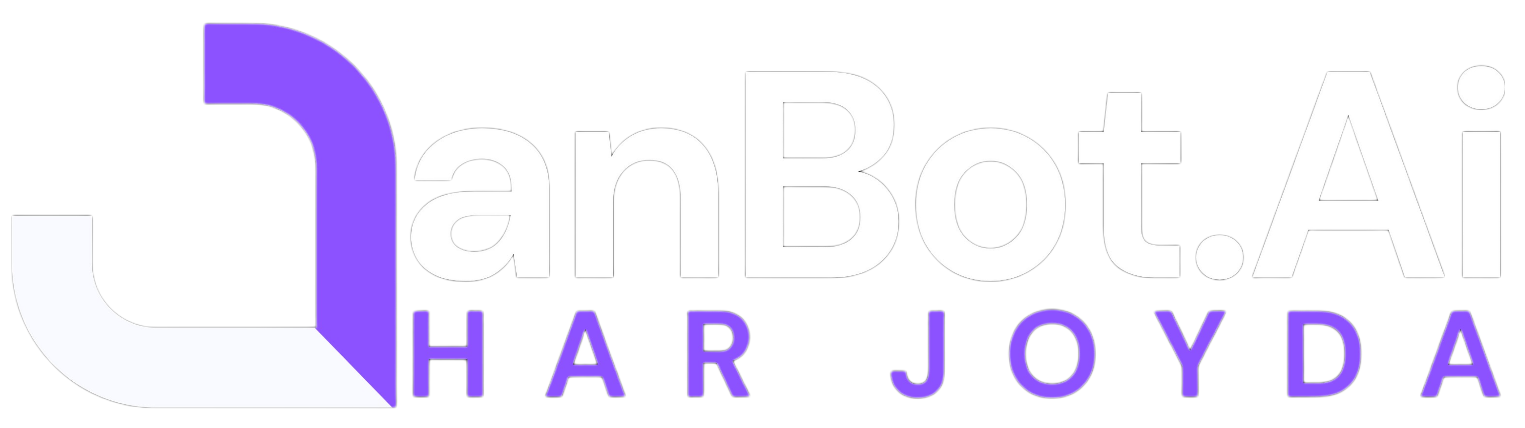
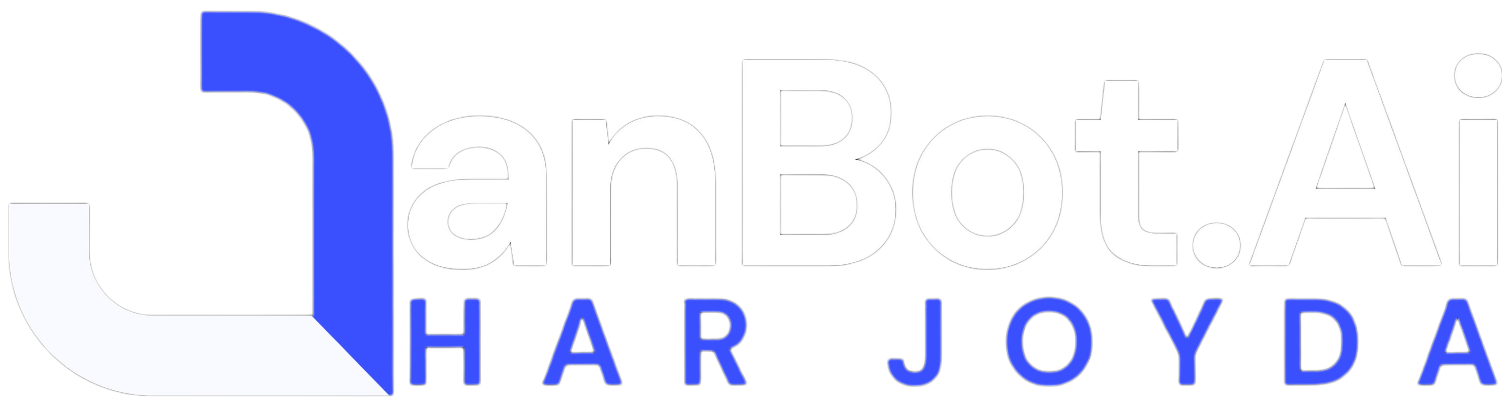
added uz brand and also updated timeslots and added a telegram

diff --git a/src/sections/Footer.tsx b/src/sections/Footer.tsx
@@ -221,7 +221,7 @@ export const Footer = () => {
       <div className="absolute inset-0 overflow-hidden">
         {/* Gradient Orbs */}
         <motion.div
-          className="absolute top-0 left-1/4 w-96 h-96 rounded-full blur-3xl" style={{ backgroundColor: `${brand.accentRgba}0.1)` }}
+          className="absolute top-0 left-1/4 w-96 h-96 bg-blue-600/10 rounded-full blur-3xl"
           animate={{
             scale: [1, 1.2, 1],
             opacity: [0.3, 0.5, 0.3],
@@ -233,7 +233,7 @@ export const Footer = () => {
           }}
         />
         <motion.div
-          className="absolute bottom-0 right-1/4 w-96 h-96 rounded-full blur-3xl" style={{ backgroundColor: `${brand.accentRgba}0.1)` }}
+          className="absolute bottom-0 right-1/4 w-96 h-96 bg-indigo-600/10 rounded-full blur-3xl"
           animate={{
             scale: [1.2, 1, 1.2],
             opacity: [0.5, 0.3, 0.5],
@@ -288,7 +288,7 @@ export const Footer = () => {
                 variants={itemVariants}
                 className="relative group"
               >
-                <div className="absolute inset-0 rounded-2xl blur-xl group-hover:blur-2xl transition-all duration-500" style={{ background: `linear-gradient(135deg, ${brand.accentRgba}0.2) 0%, ${brand.accentRgba}0.1) 100%)` }} />
+                <div className="absolute inset-0 bg-gradient-to-r from-blue-600/20 to-indigo-600/20 rounded-2xl blur-xl group-hover:blur-2xl transition-all duration-500" />
                 <div className="relative bg-white/5 backdrop-blur-sm border border-white/10 rounded-2xl p-6 hover:bg-white/10 transition-all duration-300">
                   <div className="flex items-center justify-between">
                     <div>
@@ -303,7 +303,7 @@ export const Footer = () => {
                       </motion.div>
                       <div className="text-sm text-gray-400">{stat.label}</div>
                     </div>
-                    <stat.icon className="w-12 h-12" style={{ color: brand.primary, opacity: 0.5 }} />
+                    <stat.icon className="w-12 h-12 text-blue-400/50" />
                   </div>
                 </div>
               </motion.div>
@@ -345,8 +345,7 @@ export const Footer = () => {
 
                   <motion.a
                     href="#hero"
-                    className="inline-flex items-center gap-2 font-semibold text-sm sm:text-base group transition-all duration-300"
-                    style={{ color: brand.primary }}
+                    className="inline-flex items-center gap-2 text-blue-400 hover:text-blue-300 font-semibold text-sm sm:text-base group transition-all duration-300"
                     whileHover={{ x: 5 }}
                   >
                     {translations.learnMore}
@@ -358,11 +357,11 @@ export const Footer = () => {
                 <div className="space-y-3">
                   <motion.a
                     href={`mailto:${translations.contact.email}`}
-                    className="flex items-center gap-3 text-gray-400 text-sm transition-colors duration-300 group hover:text-[var(--brand-primary)]"
+                    className="flex items-center gap-3 text-gray-400 hover:text-blue-400 text-sm transition-colors duration-300 group"
                     whileHover={{ x: 5 }}
                   >
-                    <div className="p-2 rounded-lg transition-colors duration-300" style={{ backgroundColor: `${brand.accentRgba}0.1)` }}>
-                      <Mail className="w-4 h-4" style={{ color: brand.primary }} />
+                    <div className="p-2 bg-blue-500/10 rounded-lg group-hover:bg-blue-500/20 transition-colors duration-300">
+                      <Mail className="w-4 h-4 text-blue-400" />
                     </div>
                     {translations.contact.email}
                   </motion.a>
@@ -382,11 +381,11 @@ export const Footer = () => {
                     <motion.button
                       key={index}
                       onClick={() => handleScrollToSection(link)}
-                      className="w-full text-left block text-gray-400 text-sm transition-all duration-300 group flex items-center gap-2 cursor-pointer bg-transparent border-0 hover:text-[var(--brand-primary)]"
+                      className="w-full text-left block text-gray-400 hover:text-blue-400 text-sm transition-all duration-300 group flex items-center gap-2 cursor-pointer bg-transparent border-0"
                       whileHover={{ x: 5 }}
                     >
-                      <CheckCircle className="w-3 h-3 transition-colors group-hover:text-[var(--brand-primary)]" style={{ color: `${brand.accentRgba}0.5)` }} />
-                      <span className="border-b border-transparent transition-colors duration-300 group-hover:border-[var(--brand-primary)]">
+                      <CheckCircle className="w-3 h-3 text-blue-500/50 group-hover:text-blue-400 transition-colors" />
+                      <span className="border-b border-transparent group-hover:border-blue-400/50 transition-colors duration-300">
                         {link}
                       </span>
                     </motion.button>
@@ -405,33 +404,33 @@ export const Footer = () => {
                 <nav className="space-y-2">
                   <motion.button
                     onClick={() => openPdfModal("data_processing_policy", translations.legal.dataProcessing)}
-                    className="w-full text-left block text-gray-400 text-sm transition-all duration-300 group flex items-center gap-2 cursor-pointer bg-transparent border-0 hover:text-[var(--brand-primary)]"
+                    className="w-full text-left block text-gray-400 hover:text-blue-400 text-sm transition-all duration-300 group flex items-center gap-2 cursor-pointer bg-transparent border-0"
                     whileHover={{ x: 5 }}
                   >
-                    <FileText className="w-3 h-3 transition-colors group-hover:text-[var(--brand-primary)]" style={{ color: `${brand.accentRgba}0.5)` }} />
-                    <span className="border-b border-transparent transition-colors duration-300 group-hover:border-[var(--brand-primary)]">
+                    <FileText className="w-3 h-3 text-blue-500/50 group-hover:text-blue-400 transition-colors" />
+                    <span className="border-b border-transparent group-hover:border-blue-400/50 transition-colors duration-300">
                       {translations.legal.dataProcessing}
                     </span>
                   </motion.button>
 
                   <motion.button
                     onClick={() => openPdfModal("offer_dmu", translations.legal.offer)}
-                    className="w-full text-left block text-gray-400 text-sm transition-all duration-300 group flex items-center gap-2 cursor-pointer bg-transparent border-0 hover:text-[var(--brand-primary)]"
+                    className="w-full text-left block text-gray-400 hover:text-blue-400 text-sm transition-all duration-300 group flex items-center gap-2 cursor-pointer bg-transparent border-0"
                     whileHover={{ x: 5 }}
                   >
-                    <FileText className="w-3 h-3 transition-colors group-hover:text-[var(--brand-primary)]" style={{ color: `${brand.accentRgba}0.5)` }} />
-                    <span className="border-b border-transparent transition-colors duration-300 group-hover:border-[var(--brand-primary)]">
+                    <FileText className="w-3 h-3 text-blue-500/50 group-hover:text-blue-400 transition-colors" />
+                    <span className="border-b border-transparent group-hover:border-blue-400/50 transition-colors duration-300">
                       {translations.legal.offer}
                     </span>
                   </motion.button>
 
                   <motion.button
                     onClick={() => openPdfModal("terms_of_use", translations.legal.terms)}
-                    className="w-full text-left block text-gray-400 text-sm transition-all duration-300 group flex items-center gap-2 cursor-pointer bg-transparent border-0 hover:text-[var(--brand-primary)]"
+                    className="w-full text-left block text-gray-400 hover:text-blue-400 text-sm transition-all duration-300 group flex items-center gap-2 cursor-pointer bg-transparent border-0"
                     whileHover={{ x: 5 }}
                   >
-                    <FileText className="w-3 h-3 transition-colors group-hover:text-[var(--brand-primary)]" style={{ color: `${brand.accentRgba}0.5)` }} />
-                    <span className="border-b border-transparent transition-colors duration-300 group-hover:border-[var(--brand-primary)]">
+                    <FileText className="w-3 h-3 text-blue-500/50 group-hover:text-blue-400 transition-colors" />
+                    <span className="border-b border-transparent group-hover:border-blue-400/50 transition-colors duration-300">
                       {translations.legal.terms}
                     </span>
                   </motion.button>
@@ -443,14 +442,14 @@ export const Footer = () => {
             <motion.div variants={itemVariants} className="lg:col-span-5">
               <div className="relative">
                 {/* Glassmorphic Card Background */}
-                <div className="absolute inset-0 rounded-2xl blur-xl" style={{ background: `linear-gradient(135deg, ${brand.accentRgba}0.1) 0%, ${brand.accentRgba}0.05) 100%)` }} />
+                <div className="absolute inset-0 bg-gradient-to-br from-blue-600/10 via-indigo-600/5 to-purple-600/10 rounded-2xl blur-xl" />
 
                 <div className="relative bg-white/5 backdrop-blur-sm border border-white/10 rounded-2xl p-6 hover:bg-white/[0.07] transition-all duration-300">
                   <div className="space-y-4">
                     {/* Title with Icon */}
                     <div className="flex items-center gap-3">
-                      <div className="p-2.5 rounded-xl" style={{ background: `linear-gradient(135deg, ${brand.accentRgba}0.2) 0%, ${brand.accentRgba}0.1) 100%)` }}>
-                        <Mail className="w-5 h-5" style={{ color: brand.primary }} />
+                      <div className="p-2.5 bg-gradient-to-br from-blue-500/20 to-indigo-500/20 rounded-xl">
+                        <Mail className="w-5 h-5 text-blue-400" />
                       </div>
                       <div>
                         <h3 className="text-white text-lg font-bold">
@@ -470,7 +469,7 @@ export const Footer = () => {
                     >
                       <div className="relative">
                         {/* Glow Effect on Focus */}
-                        <div className="absolute -inset-0.5 rounded-xl opacity-0 group-focus-within:opacity-20 blur transition duration-500" style={{ background: `linear-gradient(135deg, ${brand.primary} 0%, ${brand.secondary} 100%)` }} />
+                        <div className="absolute -inset-0.5 bg-gradient-to-r from-blue-600 to-indigo-600 rounded-xl opacity-0 group-focus-within:opacity-20 blur transition duration-500" />
 
                         <div className="relative flex gap-2 group">
                           <div className="relative flex-1">
@@ -479,15 +478,14 @@ export const Footer = () => {
                               value={email}
                               onChange={(e) => setEmail(e.target.value)}
                               placeholder={translations.newsletter.placeholder}
-                              className="w-full px-4 py-3.5 bg-white/10 border border-white/20 rounded-xl text-white placeholder-gray-400 focus:outline-none focus:ring-2 focus:ring-[var(--brand-primary)]/50 focus:border-[var(--brand-primary)]/50 focus:bg-white/[0.15] transition-all duration-300"
+                              className="w-full px-4 py-3.5 bg-white/10 border border-white/20 rounded-xl text-white placeholder-gray-400 focus:outline-none focus:ring-2 focus:ring-blue-500/50 focus:border-blue-500/50 focus:bg-white/[0.15] transition-all duration-300"
                               disabled={isSubmitting}
                             />
                           </div>
                           <motion.button
                             type="submit"
                             disabled={isSubmitting}
-                            className="relative px-6 py-3.5 text-white font-bold rounded-xl transition-all duration-300 shadow-lg disabled:opacity-50 disabled:cursor-not-allowed flex items-center gap-2 overflow-hidden group"
-                            style={{ background: `linear-gradient(135deg, ${brand.primary} 0%, ${brand.secondary} 100%)` }}
+                            className="relative px-6 py-3.5 bg-gradient-to-r from-blue-600 via-blue-500 to-indigo-600 hover:from-blue-700 hover:via-blue-600 hover:to-indigo-700 text-white font-bold rounded-xl transition-all duration-300 shadow-lg shadow-blue-500/25 hover:shadow-xl hover:shadow-blue-500/40 disabled:opacity-50 disabled:cursor-not-allowed flex items-center gap-2 overflow-hidden group"
                             whileHover={{ scale: 1.02 }}
                             whileTap={{ scale: 0.98 }}
                           >
@@ -530,15 +528,15 @@ export const Footer = () => {
                             key={index}
                             href={social.href}
                             aria-label={social.label}
-                            className="group relative w-10 h-10 flex items-center justify-center rounded-xl bg-white/5 border border-white/10 transition-all duration-300 hover:border-[var(--brand-primary)]"
+                            className="group relative w-10 h-10 flex items-center justify-center rounded-xl bg-white/5 hover:bg-gradient-to-br hover:from-blue-500/20 hover:to-indigo-500/20 border border-white/10 hover:border-blue-500/50 transition-all duration-300"
                             whileHover={{ scale: 1.1, y: -2 }}
                             whileTap={{ scale: 0.95 }}
                           >
                             <div className="flex items-center justify-center w-5 h-5">
-                              <social.Icon className="w-full h-full text-gray-400 transition-colors duration-300 group-hover:text-[var(--brand-primary)]" />
+                              <social.Icon className="w-full h-full text-gray-400 group-hover:text-blue-400 transition-colors duration-300" />
                             </div>
                             {/* Glow on hover */}
-                            <div className="absolute inset-0 rounded-xl opacity-0 group-hover:opacity-20 blur transition-opacity duration-300" style={{ background: `linear-gradient(135deg, ${brand.primary} 0%, ${brand.secondary} 100%)` }} />
+                            <div className="absolute inset-0 rounded-xl bg-gradient-to-r from-blue-600 to-indigo-600 opacity-0 group-hover:opacity-20 blur transition-opacity duration-300" />
                           </motion.a>
                         ))}
                       </div>
@@ -558,7 +556,7 @@ export const Footer = () => {
               <div className="w-full border-t border-white/10" />
             </div>
             <div className="relative flex justify-center">
-              <div className="w-16 h-1 rounded-full" style={{ background: `linear-gradient(135deg, ${brand.primary} 0%, ${brand.secondary} 100%)` }} />
+              <div className="bg-gradient-to-r from-blue-600 to-indigo-600 w-16 h-1 rounded-full" />
             </div>
           </motion.div>
 
@@ -569,7 +567,7 @@ export const Footer = () => {
           >
             {/* Copyright */}
             <div className="flex items-center gap-2 text-gray-500 text-sm">
-              <span>&copy; {new Date().getFullYear()} {brand.name}. {translations.rights.replace(/^ZhanCare\.AI\.\s*/, "").replace(/^JanCare\.Ai\.\s*/, "")}</span>
+              <span>&copy; {new Date().getFullYear()} {translations.rights}</span>
             </div>
 
             {/* Made with love */}

diff --git a/src/sections/CallToAction.tsx b/src/sections/CallToAction.tsx
@@ -152,7 +152,7 @@ ${formData.message}
         <div className="max-w-4xl mx-auto relative z-10">
           <div className="relative">
             {/* Glassmorphic background glow */}
-            <div className="absolute inset-0 rounded-3xl blur-2xl" style={{ background: `linear-gradient(135deg, ${brand.accentRgba}0.2) 0%, ${brand.accentRgba}0.1) 100%)` }} />
+            <div className="absolute inset-0 bg-gradient-to-br from-blue-500/20 via-indigo-500/10 to-purple-500/20 rounded-3xl blur-2xl" />
 
             <div className="relative bg-white/95 backdrop-blur-xl rounded-3xl shadow-2xl border border-white/20 overflow-hidden">
               <div className="p-8 sm:p-12">
@@ -175,7 +175,7 @@ ${formData.message}
                           value={formData.name}
                           onChange={handleChange}
                           required
-                          className="w-full px-4 py-3.5 bg-gray-50 border-2 border-gray-200 rounded-xl text-gray-900 placeholder-gray-400 focus:outline-none focus:ring-2 focus:ring-[var(--brand-primary)]/50 focus:border-[var(--brand-primary)] focus:bg-white transition-all duration-300 group-hover:border-gray-300"
+                          className="w-full px-4 py-3.5 bg-gray-50 border-2 border-gray-200 rounded-xl text-gray-900 placeholder-gray-400 focus:outline-none focus:ring-2 focus:ring-blue-500/50 focus:border-blue-500 focus:bg-white transition-all duration-300 group-hover:border-gray-300"
                           disabled={isSubmitting}
                         />
                       </div>
@@ -198,7 +198,7 @@ ${formData.message}
                           value={formData.email}
                           onChange={handleChange}
                           required
-                          className="w-full px-4 py-3.5 bg-gray-50 border-2 border-gray-200 rounded-xl text-gray-900 placeholder-gray-400 focus:outline-none focus:ring-2 focus:ring-[var(--brand-primary)]/50 focus:border-[var(--brand-primary)] focus:bg-white transition-all duration-300 group-hover:border-gray-300"
+                          className="w-full px-4 py-3.5 bg-gray-50 border-2 border-gray-200 rounded-xl text-gray-900 placeholder-gray-400 focus:outline-none focus:ring-2 focus:ring-blue-500/50 focus:border-blue-500 focus:bg-white transition-all duration-300 group-hover:border-gray-300"
                           disabled={isSubmitting}
                         />
                       </div>
@@ -222,7 +222,7 @@ ${formData.message}
                         value={formData.message}
                         onChange={handleChange}
                         required
-                        className="w-full px-4 py-3.5 bg-gray-50 border-2 border-gray-200 rounded-xl text-gray-900 placeholder-gray-400 focus:outline-none focus:ring-2 focus:ring-[var(--brand-primary)]/50 focus:border-[var(--brand-primary)] focus:bg-white transition-all duration-300 resize-none group-hover:border-gray-300"
+                        className="w-full px-4 py-3.5 bg-gray-50 border-2 border-gray-200 rounded-xl text-gray-900 placeholder-gray-400 focus:outline-none focus:ring-2 focus:ring-blue-500/50 focus:border-blue-500 focus:bg-white transition-all duration-300 resize-none group-hover:border-gray-300"
                         disabled={isSubmitting}
                       />
                     </div>

diff --git a/src/config/brandConfig.ts b/src/config/brandConfig.ts
@@ -28,11 +28,11 @@ export const BRAND_STYLES: Record<BrandId, BrandStyle> = {
     id: "uz",
     name: "JanCare.Ai",
     tagline: "HAR JOYDA",
-    primary: "#8b5cf6",
-    secondary: "#6d28d9",
-    sidebarGradient: "linear-gradient(135deg, #0f0a1e 0%, #1a1030 25%, #4c1d95 75%, #7c3aed 100%)",
-    sidebarGlow: "rgba(139,92,246,0.25)",
-    accentRgba: "rgba(139,92,246,",
+    primary: "#3772ff",
+    secondary: "#29358f",
+    sidebarGradient: "linear-gradient(135deg, #12263a 0%, #1e263e 25%, #29358f 75%, #3772ff 100%)",
+    sidebarGlow: "rgba(55,114,255,0.2)",
+    accentRgba: "rgba(55,114,255,",
     currency: "UZS",
   },
 };
